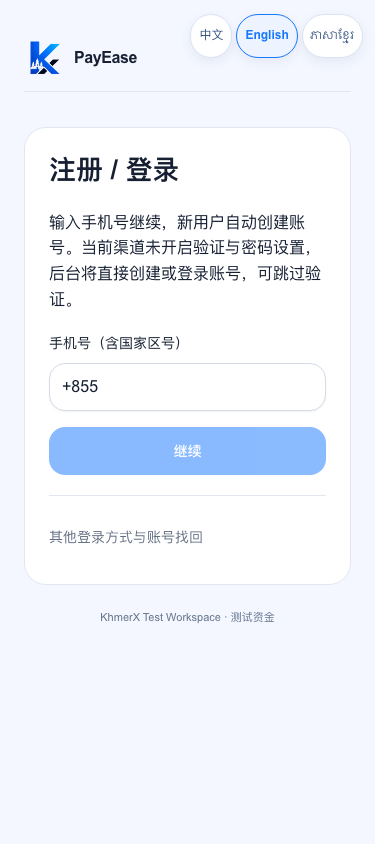
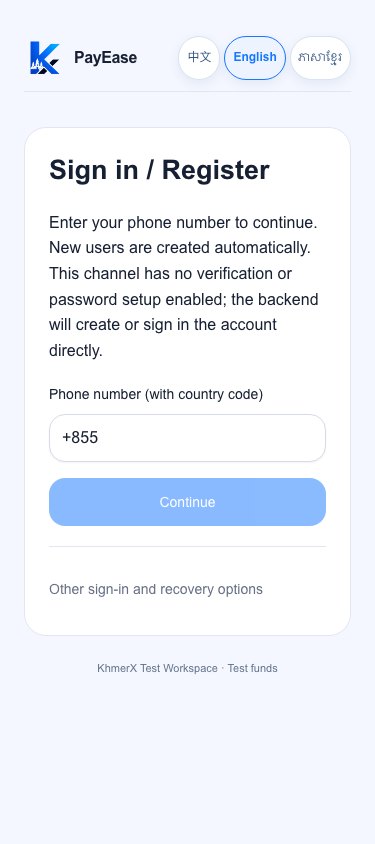
fix: make H5 auth locale switch effective

diff --git a/components/auth-locale.tsx b/components/auth-locale.tsx
@@ -3,14 +3,53 @@
 /* eslint-disable react-hooks/immutability -- update document language synchronously with the visible locale */
 import {useEffect,useState} from 'react';
 import {localeLabels,type Locale} from '@/lib/i18n';
-const copy:Record<string,[string,string,string]>={
- '注册 / 登录':['注册 / 登录','Sign in / Register','ចូល / ចុះឈ្មោះ'],'密码登录':['密码登录','Password sign in','ចូលដោយពាក្យសម្ងាត់'],'验证手机号':['验证手机号','Verify phone','ផ្ទៀងផ្ទាត់ទូរស័ព្ទ'],'找回密码':['找回密码','Recover password','ស្តារពាក្យសម្ងាត់'],'完成账号设置':['完成账号设置','Complete account setup','បំពេញការកំណត់គណនី'],'Telegram 登录':['Telegram 登录','Telegram sign in','ចូល Telegram'],'客户账号':['客户账号','Customer account','គណនីអតិថិជន'],'重新加载':['重新加载','Reload','ផ្ទុកឡើងវិញ'],'返回登录':['返回登录','Back to sign in','ត្រឡប់ទៅចូល'],'手机号（含国家区号）':['手机号（含国家区号）','Phone number (with country code)','លេខទូរស័ព្ទ (មានលេខប្រទេស)'],'注册手机号':['注册手机号','Registered phone number','លេខទូរស័ព្ទដែលបានចុះឈ្មោះ'],'密码':['密码','Password','ពាក្យសម្ងាត់'],'新密码':['新密码','New password','ពាក្យសម្ងាត់ថ្មី'],'确认密码':['确认密码','Confirm password','បញ្ជាក់ពាក្យសម្ងាត់'],'确认新密码':['确认新密码','Confirm new password','បញ្ជាក់ពាក្យសម្ងាត់ថ្មី'],'同意接收本次验证码':['同意接收本次验证码','I agree to receive this code','ខ្ញុំយល់ព្រមទទួលលេខកូដនេះ'],'同意接收本次重置密码验证码':['同意接收本次重置密码验证码','I agree to receive this password reset code','ខ្ញុំយល់ព្រមទទួលលេខកូដស្តារពាក្យសម្ងាត់'],'获取验证码':['获取验证码','Get code','ទទួលលេខកូដ'],'获取重置验证码':['获取重置验证码','Get reset code','ទទួលលេខកូដស្តារ'],'完成验证':['完成验证','Verify','ផ្ទៀងផ្ទាត់'],'继续':['继续','Continue','បន្ត'],'登录':['登录','Sign in','ចូល'],'处理中…':['处理中…','Processing…','កំពុងដំណើរការ…'],'重新获取验证码':['重新获取验证码','Get a new code','ទទួលលេខកូដថ្មី'],'更换手机号':['更换手机号','Change phone number','ប្តូរលេខទូរស័ព្ទ'],'进入申请':['进入申请','Continue to application','បន្តទៅពាក្យស្នើសុំ'],'验证手机号并重置密码':['验证手机号并重置密码','Verify phone and reset password','ផ្ទៀងផ្ទាត់ទូរស័ព្ទ និងស្តារពាក្យសម្ងាត់'],'忘记密码？验证手机号重置':['忘记密码？验证手机号重置','Forgot password? Reset by phone','ភ្លេចពាក្យសម្ងាត់? ស្តារតាមទូរស័ព្ទ'],'使用密码登录':['使用密码登录','Use password','ប្រើពាក្យសម្ងាត់'],'使用验证码登录':['使用验证码登录','Use verification code','ប្រើលេខកូដផ្ទៀងផ្ទាត់'],'返回注册 / 登录':['返回注册 / 登录','Back to sign in / register','ត្រឡប់ទៅចូល / ចុះឈ្មោះ'],'其他登录方式与账号找回':['其他登录方式与账号找回','Other sign-in and recovery options','ជម្រើសចូល និងស្តារគណនីផ្សេងទៀត'],'手机号验证':['手机号验证','Phone verification','ការផ្ទៀងផ្ទាត់ទូរស័ព្ទ'],'设置密码（必填）':['设置密码（必填）','Set password (required)','កំណត់ពាក្យសម្ងាត់ (ត្រូវការ)'],'保存密码':['保存密码','Save password','រក្សាទុកពាក្យសម្ងាត់'],'当前密码':['当前密码','Current password','ពាក្យសម្ងាត់បច្ចុប្បន្ន']};
+const copy:Record<string,string[]>={
+ '注册 / 登录':['注册 / 登录','Sign in / Register','ចូល / ចុះឈ្មោះ'],'密码登录':['密码登录','Password sign in','ចូលដោយពាក្យសម្ងាត់'],'验证手机号':['验证手机号','Verify phone','ផ្ទៀងផ្ទាត់ទូរស័ព្ទ'],'找回密码':['找回密码','Recover password','ស្តារពាក្យសម្ងាត់'],'完成账号设置':['完成账号设置','Complete account setup','បំពេញការកំណត់គណនី'],'Telegram 登录':['Telegram 登录','Telegram sign in','ចូល Telegram'],'客户账号':['客户账号','Customer account','គណនីអតិថិជន'],'重新加载':['重新加载','Reload','ផ្ទុកឡើងវិញ'],'返回登录':['返回登录','Back to sign in','ត្រឡប់ទៅចូល'],'手机号（含国家区号）':['手机号（含国家区号）','Phone number (with country code)','លេខទូរស័ព្ទ (មានលេខប្រទេស)'],'注册手机号':['注册手机号','Registered phone number','លេខទូរស័ព្ទដែលបានចុះឈ្មោះ'],'密码':['密码','Password','ពាក្យសម្ងាត់'],'新密码':['新密码','New password','ពាក្យសម្ងាត់ថ្មី'],'确认密码':['确认密码','Confirm password','បញ្ជាក់ពាក្យសម្ងាត់'],'确认新密码':['确认新密码','Confirm new password','បញ្ជាក់ពាក្យសម្ងាត់ថ្មី'],'同意接收本次验证码':['同意接收本次验证码','I agree to receive this code','ខ្ញុំយល់ព្រមទទួលលេខកូដនេះ'],'同意接收本次重置密码验证码':['同意接收本次重置密码验证码','I agree to receive this password reset code','ខ្ញុំយល់ព្រមទទួលលេខកូដស្តារពាក្យសម្ងាត់'],'获取验证码':['获取验证码','Get code','ទទួលលេខកូដ'],'获取重置验证码':['获取重置验证码','Get reset code','ទទួលលេខកូដស្តារ'],'完成验证':['完成验证','Verify','ផ្ទៀងផ្ទាត់'],'继续':['继续','Continue','បន្ត'],'登录':['登录','Sign in','ចូល'],'处理中…':['处理中…','Processing…','កំពុងដំណើរការ…'],'重新获取验证码':['重新获取验证码','Get a new code','ទទួលលេខកូដថ្មី'],'更换手机号':['更换手机号','Change phone number','ប្តូរលេខទូរស័ព្ទ'],'进入申请':['进入申请','Continue to application','បន្តទៅពាក្យស្នើសុំ'],'验证手机号并重置密码':['验证手机号并重置密码','Verify phone and reset password','ផ្ទៀងផ្ទាត់ទូរស័ព្ទ និងស្តារពាក្យសម្ងាត់'],'忘记密码？验证手机号重置':['忘记密码？验证手机号重置','Forgot password? Reset by phone','ភ្លេចពាក្យសម្ងាត់? ស្តារតាមទូរស័ព្ទ'],'使用密码登录':['使用密码登录','Use password','ប្រើពាក្យសម្ងាត់'],'使用验证码登录':['使用验证码登录','Use verification code','ប្រើលេខកូដផ្ទៀងផ្ទាត់'],'返回注册 / 登录':['返回注册 / 登录','Back to sign in / register','ត្រឡប់ទៅចូល / ចុះឈ្មោះ'],'其他登录方式与账号找回':['其他登录方式与账号找回','Other sign-in and recovery options','ជម្រើសចូល និងស្តារគណនីផ្សេងទៀត'],'手机号验证':['手机号验证','Phone verification','ការផ្ទៀងផ្ទាត់ទូរស័ព្ទ'],'设置密码（必填）':['设置密码（必填）','Set password (required)','កំណត់ពាក្យសម្ងាត់ (ត្រូវការ)'],'保存密码':['保存密码','Save password','រក្សាទុកពាក្យសម្ងាត់'],'当前密码':['当前密码','Current password','ពាក្យសម្ងាត់បច្ចុប្បន្ន'],'输入手机号继续，新用户自动创建账号。当前渠道未开启验证与密码设置，后台将直接创建或登录账号，可跳过验证。':['Enter your phone number to continue. New users are created automatically. This channel has no verification or password setup enabled; the backend will create or sign in the account directly.','បញ្ចូលលេខទូរស័ព្ទដើម្បីបន្ត។ អ្នកប្រើថ្មីនឹងបង្កើតគណនីដោយស្វ័យប្រវត្តិ។ ឆានែលនេះមិនបានបើកការផ្ទៀងផ្ទាត់ ឬកំណត់ពាក្យសម្ងាត់ទេ ដូច្នេះប្រព័ន្ធនឹងបង្កើត ឬចូលគណនីដោយផ្ទាល់។'],'KhmerX Test Workspace · 测试资金':['KhmerX Test Workspace · Test funds','KhmerX Test Workspace · ប្រាក់សាកល្បង']};
 const reverse=new Map<string,string>();for(const [key,values] of Object.entries(copy))for(const value of values)reverse.set(value,key);
-function localize(root:HTMLElement,locale:Locale){const walker=document.createTreeWalker(root,NodeFilter.SHOW_TEXT);const nodes:Text[]=[];let n:Node|null;while((n=walker.nextNode())){const tag=n.parentElement?.tagName.toLowerCase();if(tag&&['script','style','input','textarea','button'].includes(tag))continue;nodes.push(n as Text)}for(const node of nodes){const raw=node.textContent||'',trimmed=raw.trim(),key=reverse.get(trimmed);if(!key)continue;const value=copy[key][locale==='zh'?0:locale==='km'?2:1];node.textContent=raw.replace(trimmed,value)}}
+function localize(root:HTMLElement,locale:Locale){const walker=document.createTreeWalker(root,NodeFilter.SHOW_TEXT);const nodes:Text[]=[];let n:Node|null;while((n=walker.nextNode())){const tag=n.parentElement?.tagName.toLowerCase();if(tag&&['script','style','input','textarea'].includes(tag))continue;nodes.push(n as Text)}for(const node of nodes){const raw=node.textContent||'',trimmed=raw.trim(),entry=Object.entries(copy).find(([,values])=>values.some(value=>value===trimmed)),key=entry?.[0]||reverse.get(trimmed);if(!key)continue;const value=copy[key][locale==='zh'?0:locale==='km'?2:1]||copy[key][0];if(value!==trimmed)node.textContent=raw.replace(trimmed,value)}}
 export function AuthLocaleBridge(){
  const [locale,setLocale]=useState<Locale>('en');
  useEffect(()=>{try{const saved=window.localStorage.getItem('payease-auth-language');if(saved==='zh'||saved==='km'||saved==='en')setLocale(saved)}catch(error){console.warn('[h5-auth] language preference unavailable',error)}},[]);
- useEffect(()=>{const root=document.querySelector<HTMLElement>('.mini-login');if(!root)return;let observer:MutationObserver|null=null;let busy=false;const apply=()=>{if(busy)return;busy=true;observer?.disconnect();root.lang=locale;localize(root,locale);observer?.observe(root,{subtree:true,childList:true,characterData:true});busy=false};apply();observer=new MutationObserver(()=>apply());observer.observe(root,{subtree:true,childList:true,characterData:true});return()=>observer?.disconnect()},[locale]);
- const choose=(next:Locale)=>{setLocale(next);try{window.localStorage.setItem('payease-auth-language',next)}catch(error){console.warn('[h5-auth] language preference unavailable',error)}window.dispatchEvent(new CustomEvent('payease-auth-language-change',{detail:next}));document.documentElement.lang=next};
+ useEffect(()=>{
+  let busy=false;
+  const root=document.querySelector<HTMLElement>('.mini-login');
+  const target=root||document.body;
+  let observer:MutationObserver|null=null;
+  const apply=()=>{
+   if(busy||!target)return;
+   busy=true;
+   observer?.disconnect();
+   document.documentElement.lang=locale;
+   if(root)root.lang=locale;
+   localize(target,locale);
+   busy=false;
+   observer?.observe(target,{subtree:true,childList:true,characterData:true});
+  };
+  apply();
+  observer=new MutationObserver(apply);
+  if(target)observer.observe(target,{subtree:true,childList:true,characterData:true});
+  return()=>observer?.disconnect();
+ },[locale]);
+ const choose=(next:Locale)=>{
+  setLocale(next);
+  try{window.localStorage.setItem('payease-auth-language',next)}catch(error){console.warn('[h5-auth] language preference unavailable',error)}
+  window.dispatchEvent(new CustomEvent('payease-auth-language-change',{detail:next}));
+  document.documentElement.lang=next;
+  const repaint=()=>{
+   if(typeof document.querySelectorAll==='function'){
+    const intro=[...document.querySelectorAll('.h5-login-card > p')].find(node=>node.textContent?.startsWith('输入手机号继续'));
+    if(intro)intro.textContent=next==='zh'?'输入手机号继续，新用户自动创建账号。当前渠道未开启验证与密码设置，后台将直接创建或登录账号，可跳过验证。':next==='km'?'បញ្ចូលលេខទូរស័ព្ទដើម្បីបន្ត។ អ្នកប្រើថ្មីនឹងបង្កើតគណនីដោយស្វ័យប្រវត្តិ។ ឆានែលនេះមិនបានបើកការផ្ទៀងផ្ទាត់ ឬកំណត់ពាក្យសម្ងាត់ទេ ដូច្នេះប្រព័ន្ធនឹងបង្កើត ឬចូលគណនីដោយផ្ទាល់។':'Enter your phone number to continue. New users are created automatically. This channel has no verification or password setup enabled; the backend will create or sign in the account directly.';
+    const note=document.querySelector('.login-environment-note');
+    if(note)note.textContent=next==='zh'?'KhmerX Test Workspace · 测试资金':next==='km'?'KhmerX Test Workspace · ប្រាក់សាកល្បង':'KhmerX Test Workspace · Test funds';
+   }
+   if(document.body)localize(document.body,next);
+  };
+  const schedule=typeof window.setTimeout==='function'?window.setTimeout.bind(window):(fn:()=>void)=>fn();
+  for(const delay of [0,100,500,1000])schedule(repaint,delay);
+ };
  return <div className="auth-locale" aria-label="Language">{(['zh','en','km'] as Locale[]).map(next=><button key={next} type="button" onClick={()=>choose(next)} aria-label={localeLabels[next]} aria-pressed={locale===next}>{localeLabels[next]}</button>)}</div>
 }
+
+copy['输入手机号继续，新用户自动创建账号。当前渠道未开启验证与密码设置，后台将直接创建或登录账号，可跳过验证。']=['输入手机号继续，新用户自动创建账号。当前渠道未开启验证与密码设置，后台将直接创建或登录账号，可跳过验证。','Enter your phone number to continue. New users are created automatically. This channel has no verification or password setup enabled; the backend will create or sign in the account directly.','បញ្ចូលលេខទូរស័ព្ទដើម្បីបន្ត។ អ្នកប្រើថ្មីនឹងបង្កើតគណនីដោយស្វ័យប្រវត្តិ។ ឆានែលនេះមិនបានបើកការផ្ទៀងផ្ទាត់ ឬកំណត់ពាក្យសម្ងាត់ទេ ដូច្នេះប្រព័ន្ធនឹងបង្កើត ឬចូលគណនីដោយផ្ទាល់។'];
+copy['KhmerX Test Workspace · 测试资金']=['KhmerX Test Workspace · 测试资金','KhmerX Test Workspace · Test funds','KhmerX Test Workspace · ប្រាក់សាកល្បង'];
+reverse.set('输入手机号继续，新用户自动创建账号。当前渠道未开启验证与密码设置，后台将直接创建或登录账号，可跳过验证。','输入手机号继续，新用户自动创建账号。当前渠道未开启验证与密码设置，后台将直接创建或登录账号，可跳过验证。');reverse.set('KhmerX Test Workspace · 测试资金','KhmerX Test Workspace · 测试资金');

diff --git a/app/h5/login.tsx b/app/h5/login.tsx
@@ -10,6 +10,7 @@ import {MiniNavigationProvider} from '@/components/mini-shell';
 import {MiniRouteLoading} from '@/components/mini-route-loading';
 import {apiFetch,ApiClientError} from '@/lib/api-client';
 import type {Locale} from '@/lib/i18n';
+import {AuthLocaleBridge} from '@/components/auth-locale';
 type Session={phoneMasked:string;mode:'demo'|'telegram';expiresAt:number;phoneVerified?:boolean;verificationCompleted?:boolean;hasPassword?:boolean};
 type Challenge={challengeId:string;expiresAt:number;retryAt:number;demoCode?:string;phoneMasked:string};
 export default function H5Login(){
@@ -62,7 +63,7 @@ export default function H5Login(){
  if(!ready)return error?<main className="h5-login mini-login"><section className="h5-login-card"><p className="error" role="alert">{displayError}</p><Button onClick={()=>window.location.reload()}>{reloadLabel}</Button></section></main>:<MiniRouteLoading/>;
  if(session&&view==='workspace'&&complete(session,policy))return <MiniNavigationProvider navigate={navigateMini}><MiniClient screen={miniScreen==='login'?'home':miniScreen} queryString={miniQuery} phone={session.phoneMasked} company={company} busy={busy} onLogout={()=>void logout()} onSecurity={()=>navigate('security')}/></MiniNavigationProvider>;
 
- return <main className="h5-login mini-login"><header className="h5-header"><Link className="brand" href="/h5"><img className="brand-logo" src="/brand/khmerx-icon-v2.png" alt="KhmerX" width={72} height={72}/><span>PayEase</span></Link></header><div className="h5-login-grid"><section className="h5-login-card"><h1>{({register:'注册 / 登录',password:'密码登录',verify:'验证手机号',recovery:'找回密码',security:'完成账号设置',telegram:'Telegram 登录'} as any)[view]||'客户账号'}</h1>{error&&<p className="error" role="alert">{error}</p>}{notice&&<p className="success" role="status">{notice}</p>}
+ return <main className="h5-login mini-login"><header className="h5-header"><Link className="brand" href="/h5"><img className="brand-logo" src="/brand/khmerx-icon-v2.png" alt="KhmerX" width={72} height={72}/><span>PayEase</span></Link><AuthLocaleBridge/></header><div className="h5-login-grid"><section className="h5-login-card"><h1>{({register:'注册 / 登录',password:'密码登录',verify:'验证手机号',recovery:'找回密码',security:'完成账号设置',telegram:'Telegram 登录'} as any)[view]||'客户账号'}</h1>{error&&<p className="error" role="alert">{error}</p>}{notice&&<p className="success" role="status">{notice}</p>}
  {!ready?<><p>正在读取账号信息…</p><Button onClick={()=>void run(async()=>{await load()})}>重新加载</Button></>:view==='telegram'?<div className="form"><p>正在由服务器验证 Telegram 身份，请关闭后重新打开 Mini App。</p></div>:view==='recovery'?<PasswordRecovery mode={mode} onBack={()=>navigate(session?'security':'password')} onDone={p=>{setSession(null);setPhone(p);navigate('password');setNotice('密码重置成功，旧登录会话已失效，请使用新密码登录')}}/>:view==='security'&&session?<div className="form"><p>{session.phoneMasked} · 账号已创建</p>{policy.phoneVerification&&<article className="sample"><h3>手机号验证</h3><p>{session.verificationCompleted?(session.phoneVerified?'已验证':'测试验证已完成，未真实核验手机号'):'请先完成手机号验证'}</p>{!session.verificationCompleted&&<Button variant="outline" disabled={busy} onClick={()=>navigate('verify')}>验证手机号</Button>}</article>}{policy.passwordSetup&&<form className="form" onSubmit={e=>{e.preventDefault();void savePassword()}}><h3>{session.hasPassword?'修改密码':'设置密码（必填）'}</h3><p>设置后可使用手机号和密码在其他设备登录。</p>{session.hasPassword&&<label>当前密码<Input type="password" autoComplete="current-password" value={currentPassword} onChange={e=>setCurrentPassword(e.target.value)} required maxLength={128}/></label>}<label>{session.hasPassword?'新密码':'密码'}<Input type="password" autoComplete="new-password" value={password} onChange={e=>setPassword(e.target.value)} minLength={12} maxLength={128} required/></label><label>确认密码<Input type="password" autoComplete="new-password" value={confirm} onChange={e=>setConfirm(e.target.value)} minLength={12} maxLength={128} required/></label><p className="fine">12–128 个字符。密码不会验证手机号归属。</p><Button variant="outline" type="submit" disabled={busy||password.length<12||!confirm}>保存密码</Button></form>}{!policy.phoneVerification&&!policy.passwordSetup&&<p>当前渠道未开启验证与密码设置，可直接继续申请。</p>}<Button disabled={busy||!complete(session,policy)} onClick={()=>navigate('workspace')}>进入申请</Button><Button variant="ghost" disabled={busy} onClick={()=>navigate('recovery')}>忘记密码？验证手机号重置</Button><p className="fine">请完成当前渠道开启的项目后进入申请。退出或会话失效后，使用验证码或已设置的密码登录。</p></div>:<>
  {view==='register'&&session&&<div className="sample"><p>当前已登录：{session.phoneMasked}</p><Link className="text-link" href="/h5">返回贷款流程 →</Link><Button variant="ghost" disabled={busy} onClick={()=>void logout()}>退出当前账号</Button></div>}{view==='register'&&<p>输入手机号继续，新用户自动创建账号。{policy.phoneVerification||policy.passwordSetup?'仅需完成当前渠道开启的账号设置。':'当前渠道未开启验证与密码设置，后台将直接创建或登录账号，可跳过验证。'}</p>}
  {view==='verify'&&<p>{mode==='demo'?'当前为测试模式，支持任意格式正确的手机号（含国家区号），验证码统一为 123456，不会发送 Telegram 消息，也不验证手机号归属。':'验证码将通过 Telegram 的 Verification Codes 会话发送。'}</p>}

diff --git a/app/globals.css b/app/globals.css
@@ -237,7 +237,7 @@ fieldset.language-config{margin:16px 0;padding:14px 16px;border:1px solid var(--
 .mini-menu-item{display:flex;align-items:center;gap:12px;min-height:60px;width:100%;border-bottom:1px solid #e9eef7;font-size:14px}.mini-menu-item>span{margin-left:auto;color:#697a96;font-size:11px}.mini-menu-item>svg:last-child{margin-left:8px}.mini-kyc-locked{cursor:default;opacity:.82;background:#f8faff}.mini-primary-disabled,.mini-primary-disabled:disabled{background:#dbe5f5!important;color:#64748b!important;cursor:not-allowed;box-shadow:none}
 .mini-records-heading{margin-bottom:18px}.mini-section-kicker{display:block;margin-bottom:8px;color:#3978dc;font-size:10px;font-weight:750;letter-spacing:.14em}.mini-records-heading p{margin:0;color:#64748b;font-size:14px}.mini-records-list{display:grid;gap:14px}.mini-records-list .mini-empty{margin:0}.mini-order{display:grid;grid-template-columns:minmax(0,1fr) auto;gap:14px 16px;align-items:start;margin:0;padding:18px 16px;background:#fff;border:1px solid #dce6f5;border-radius:20px;box-shadow:0 8px 24px rgba(42,75,125,.06);transition:border-color .16s ease,box-shadow .16s ease,transform .16s ease}.mini-order:hover,.mini-order:focus-visible{border-color:#99bdf1;box-shadow:0 10px 28px rgba(42,75,125,.12);transform:translateY(-1px)}.mini-order-main{min-width:0}.mini-order-meta{display:flex;align-items:center;gap:8px;flex-wrap:wrap}.mini-order-meta small:first-child{color:#19345d;font-size:13px;font-weight:700}.mini-order-meta small+small{color:#71809b;font-size:12px}.mini-order-amount{display:block;margin:11px 0 5px!important;color:#122b53;font-size:30px!important;line-height:1.1;font-variant-numeric:tabular-nums;letter-spacing:-.5px}.mini-order-amount small{display:inline!important;color:#71809b;font-size:13px;font-weight:500;letter-spacing:0}.mini-order-id{color:#71809b!important;font-size:11px!important}.mini-order-side{display:flex;align-items:center;gap:6px;padding-top:2px}.mini-order-status{display:inline-flex;align-items:center;min-height:27px;padding:0 9px;border-radius:999px;background:#edf4ff;color:#1260d3;font-size:12px;line-height:1;white-space:nowrap}.mini-order-status-approved,.mini-order-status-active,.mini-order-status-closed{background:#eaf8f1;color:#15805b}.mini-order-status-rejected{background:#fff0f0;color:#c44141}.mini-order-arrow{display:grid;place-items:center;color:#1768d8}.mini-order-facts{grid-column:1/-1;display:grid;grid-template-columns:repeat(3,minmax(0,1fr));gap:8px;padding-top:13px;border-top:1px solid #edf1f7}.mini-order-facts span{display:flex;flex-direction:column;gap:4px;min-width:0}.mini-order-facts small{color:#71809b;font-size:11px}.mini-order-facts strong{color:#263f66;font-size:13px;font-variant-numeric:tabular-nums}@media(max-width:390px){.mini-order{padding:16px 14px;gap:12px}.mini-order-amount{font-size:27px!important}.mini-order-side{gap:3px}.mini-order-status{padding:0 7px;font-size:11px}.mini-order-facts{gap:5px}.mini-order-facts strong{font-size:12px}}
 .floating-toast{position:fixed;left:50%;top:50%;transform:translate(-50%,-50%);z-index:100;width:max-content;max-width:calc(100vw - 40px);display:flex;align-items:center;justify-content:center;flex-wrap:wrap;gap:10px;padding:14px 18px;border-radius:14px;color:#fff;font-size:14px;line-height:1.55;text-align:center;box-shadow:0 14px 42px rgba(23,32,51,.28);animation:toast-in .18s ease-out}.floating-toast-error{background:rgba(177,48,48,.97)}.floating-toast button{border-color:rgba(255,255,255,.7)!important;color:#fff!important;background:transparent!important;min-height:36px!important;padding:6px 12px!important}.floating-toast a{color:#fff;text-decoration:underline}.floating-toast span{overflow-wrap:anywhere}@keyframes toast-in{from{opacity:0;transform:translate(-50%,-46%)}to{opacity:1;transform:translate(-50%,-50%)}}
-.auth-locale{position:fixed;top:14px;right:12px;z-index:120;display:flex;flex-wrap:nowrap;gap:4px;max-width:calc(100vw - 24px)}.auth-locale button{min-height:44px;border:1px solid #d8e3f3;border-radius:999px;background:#fff;color:#31517e;padding:6px 8px;font-size:12px;white-space:nowrap;cursor:pointer;box-shadow:0 4px 12px rgba(38,70,115,.08)}.auth-locale button:hover{border-color:#8eb5ec;color:#075bd5}.auth-locale button[aria-pressed=true]{border-color:var(--color-brand-primary);background:#edf3ff;color:var(--color-brand-primary);font-weight:700}
+.auth-locale{position:static;z-index:120;display:flex;flex-wrap:nowrap;gap:4px;max-width:calc(100vw - 24px);margin-left:auto;flex-shrink:0}.auth-locale button{min-height:44px;border:1px solid #d8e3f3;border-radius:999px;background:#fff;color:#31517e;padding:6px 8px;font-size:12px;white-space:nowrap;cursor:pointer;box-shadow:0 4px 12px rgba(38,70,115,.08)}.auth-locale button:hover{border-color:#8eb5ec;color:#075bd5}.auth-locale button[aria-pressed=true]{border-color:var(--color-brand-primary);background:#edf3ff;color:var(--color-brand-primary);font-weight:700}
 body:has(.mini-app) .auth-locale{display:none}
 
 /* KYC queue: compact CRM cards keep identity, routing and actions easy to scan. */

diff --git a/app/h5/layout.tsx b/app/h5/layout.tsx
@@ -1,8 +1,7 @@
 import type {ReactNode} from 'react';
 import Script from 'next/script';
 import H5Login from './login';
-import {AuthLocaleBridge} from '@/components/auth-locale';
 
 export default function H5Layout({children}:{children:ReactNode}){
- return <><style id="kyc-group-layout-hotfix">{`.customer-kyc .kyc-group-button{display:flex!important;flex-direction:row!important;align-items:center!important;position:static!important;flex:0 0 auto!important;height:auto!important;min-height:68px!important;overflow:hidden!important}.customer-kyc .kyc-group-button::after,.customer-kyc .kyc-group-button:not(:last-child)::after{content:none!important;display:none!important;position:static!important;background:none!important}.customer-kyc .kyc-group-copy{display:flex!important;flex:1!important;flex-wrap:wrap!important;min-width:0!important}.customer-kyc .kyc-group-copy em{display:block!important;width:100%!important}`}</style><Script src="https://telegram.org/js/telegram-web-app.js" strategy="afterInteractive"/><Script id="legacy-greeting-patch" strategy="afterInteractive">{`(()=>{const run=()=>{const root=document.querySelector('.mini-app');if(!root)return;const user=window.Telegram?.WebApp?.initDataUnsafe?.user;const name=(user?.first_name||'').trim()||'Telegram';root.querySelectorAll('p').forEach((el)=>{if(el.textContent==='你好，{name}')el.textContent='你好，'+name});};run();new MutationObserver(run).observe(document.documentElement,{subtree:true,childList:true,characterData:true});})();`}</Script>{children}<H5Login/><AuthLocaleBridge/></>;
+ return <><style id="kyc-group-layout-hotfix">{`.customer-kyc .kyc-group-button{display:flex!important;flex-direction:row!important;align-items:center!important;position:static!important;flex:0 0 auto!important;height:auto!important;min-height:68px!important;overflow:hidden!important}.customer-kyc .kyc-group-button::after,.customer-kyc .kyc-group-button:not(:last-child)::after{content:none!important;display:none!important;position:static!important;background:none!important}.customer-kyc .kyc-group-copy{display:flex!important;flex:1!important;flex-wrap:wrap!important;min-width:0!important}.customer-kyc .kyc-group-copy em{display:block!important;width:100%!important}`}</style><Script src="https://telegram.org/js/telegram-web-app.js" strategy="afterInteractive"/><Script id="legacy-greeting-patch" strategy="afterInteractive">{`(()=>{const run=()=>{const root=document.querySelector('.mini-app');if(!root)return;const user=window.Telegram?.WebApp?.initDataUnsafe?.user;const name=(user?.first_name||'').trim()||'Telegram';root.querySelectorAll('p').forEach((el)=>{if(el.textContent==='你好，{name}')el.textContent='你好，'+name});};run();new MutationObserver(run).observe(document.documentElement,{subtree:true,childList:true,characterData:true});})();`}</Script>{children}<H5Login/></>;
 }

diff --git a/docs/review/h5-auth-locale-20261031.md b/docs/review/h5-auth-locale-20261031.md
@@ -1,13 +1,15 @@
 # H5 登录页语言切换 visual check — 2026-10-31
 
-Local Playwright run against the Wrangler worker/proxy at `http://localhost:8082/h5/login`, viewport `375x844`, device scale factor 1. No production or remote service was changed.
+Local Playwright run against the Wrangler worker/proxy at `http://localhost:8084/h5/login`, viewport `375x844`, device scale factor 1. No production or remote service was changed. Each locale was selected by clicking the visible locale button in a fresh browser context; the run then asserted `document.documentElement.lang`, the locale button `aria-pressed` state, and the translated level-one heading before taking the screenshot.
 
 The auth language control always renders the three native names `中文 / English / ភាសាខ្មែរ`. The selected locale has `aria-pressed="true"`; the other two have `aria-pressed="false"`. All three buttons stayed on one row with at least 44px touch height and no horizontal overflow.
 
 | Locale | Screenshot | SHA-256 |
 | --- | --- | --- |
[6 lines of base64/hex data omitted]
 
-The zh/en/km button-state assertions were captured during the same run: each locale had exactly one pressed button matching its locale and the same three labels in the list.
+The zh/en/km assertions were captured during the same run: each locale had exactly one pressed button matching its locale and the same three labels in the list. The heading assertion was `注册 / 登录` for zh, `Sign in / Register` for en, and `ចូល / ចុះឈ្មោះ` for km. The screenshots also show the P2 fix: the 44px controls are in the header row beside the brand rather than fixed over the page content.
+
+The remaining P3 naming note is retained: the header brand says `PayEase`, while the footer workspace note says `KhmerX Test Workspace`; this is recorded as a naming consistency follow-up and is not changed in this review round.
